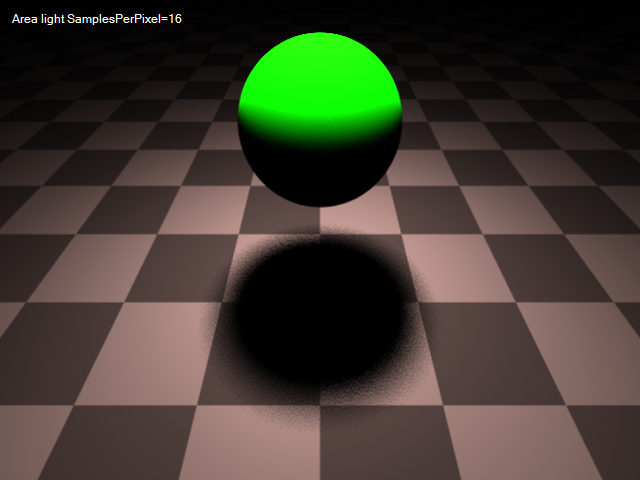
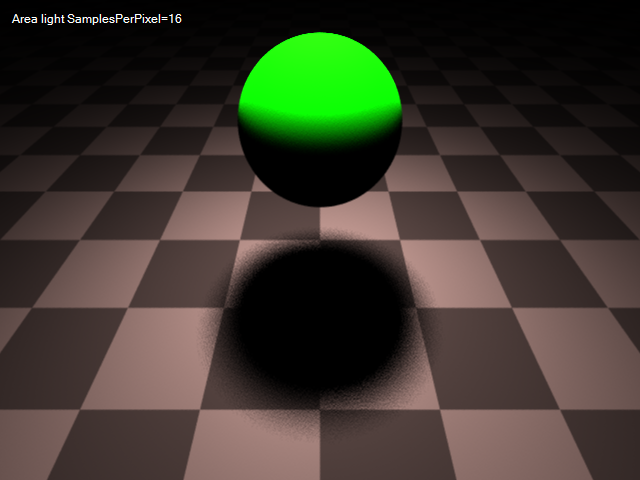
Chap 10.5.3 Solid Checkerboard https://pbr-book.org/3ed-2018/Texture/Solid_and_Procedural_Texturing#SolidCheckerboard Close #18

diff --git a/pbrt/Pbrt.Demos/Scenes/DemoScene.cs b/pbrt/Pbrt.Demos/Scenes/DemoScene.cs
@@ -25,6 +25,7 @@ namespace Pbrt.Demos.Scenes
         public static MediumInterface DefaultMediumInterface => new MediumInterface(HomogeneousMedium.Default());
 
         public Texture<float> MakeTexture(float f) => new ConstantTexture<float>(f);
+        public Texture<Spectrum> MakeSpectrumTexture(float[] rgb) => MakeSpectrumTexture(rgb[0], rgb[1], rgb[2]);
         public Texture<Spectrum> MakeSpectrumTexture(float f) => new ConstantTexture<Spectrum>(new Spectrum(f));
         public Texture<Spectrum> MakeSpectrumTexture(float r, float g, float b) => new ConstantTexture<Spectrum>(new Spectrum(SampledSpectrum.FromRgb(new[] { r, g, b })));
         public Texture<Spectrum> MakeGraySpectrumTexture(float level) => new ConstantTexture<Spectrum>(new Spectrum(SampledSpectrum.FromRgb(new[] { level, level, level })));
@@ -90,16 +91,74 @@ namespace Pbrt.Demos.Scenes
             return pointLight;
         }
 
+        public TriangleMesh Plane(float x0, float z0, float x1, float z1)
+        {
+            int[] indices = {0, 1, 2, 0, 3, 2};
+            Point3F[] points = {
+                new(x0, 0, z0), 
+                new(x0, 0, z1 ), 
+                new(x1, 0, z1), 
+                new(x1, 0, z0) 
+            };
+            
+            var plane = new TriangleMesh(Translate(), 2, indices, 4, points, null, null, null, null, null, null);
+            return plane;
+        }
+        
         public void Floor()
         {
-            var planeTransform = Transform.Scale(100f, 0.1f, 100f);
-            var plane = new Sphere(planeTransform, 1f);
             Texture<Spectrum> kdWhite = MakeGraySpectrumTexture(1);
             Texture<Spectrum> kdGray = MakeGraySpectrumTexture(0.5f);
-            TextureMapping2D mapping = new PlanarMapping2D(VX, VZ, 1, 1);
-            var kdChecker = new Checkerboard2DTexture<Spectrum>(mapping, kdGray, kdWhite);
-            AddShape(plane, new MatteMaterial(kdChecker, MakeTexture(50f), null));
+            TextureMapping3D mapping = new TextureMapping3D(Translate(0));
+            var kdChecker = new Checkerboard3DTexture<Spectrum>(mapping, kdGray, kdWhite);
+            var matteMaterial = new MatteMaterial(kdChecker, MakeTexture(50f), null);
+
+            var plane = Plane(-1000, -1000, 1000, 1000);
+            AddPrimitives(BuildTriangles(plane, matteMaterial));
         }
+
+        public TriangleMesh Cube(Transform transform)
+        {
+            return Cube(-1, -1, -1, 1, 1, 1, transform);
+        }
+
+        public TriangleMesh Cube(float x0, float y0, float z0, float x1, float y1, float z1)
+        {
+            return Cube(x0, y0, z0, x1, y1, z1, Translate());
+        }
+        
+        public TriangleMesh Cube(float x0, float y0, float z0, float x1, float y1, float z1, Transform transform)
+        {
+            int[] indices = {
+                0, 2, 3, 
+                0, 1, 3,
+                0, 2, 6,
+                0, 4, 6,
+                0, 1, 5, 
+                0, 4, 5,
+                7, 2, 3,
+                7, 2, 6,
+                7, 4, 6,
+                7, 4, 5,
+                7, 1, 3,
+                7, 1, 5
+            };
+            
+            Point3F[] points = {
+                new(x0, y0, z0), 
+                new(x0, y0, z1), 
+                new(x0, y1, z0), 
+                new(x0, y1, z1),
+                
+                new(x1, y0, z0), 
+                new(x1, y0, z1), 
+                new(x1, y1, z0), 
+                new(x1, y1, z1), 
+            };
+            
+            var cube = new TriangleMesh(transform, 12, indices, 4, points, null, null, null, null, null, null);
+            return cube;
+        } 
 
         public void Cylinder(Transform transform, IMaterial material, float zMax = 1f, MediumInterface mediumInterface = null)
         {
@@ -135,5 +194,18 @@ namespace Pbrt.Demos.Scenes
                 .ToArray();
             return triangles;
         }
+
+        public void Axis()
+        {
+            var cube1 = Cube(-0.1f, 0f, -0.1f, 0.1f, 20f, 0.1f);
+            var cube2 = Cube(-0.1f, -0.1f, 0f, 0.1f, 0.1f, 20f);
+            var cube3 = Cube(0f, -0.1f, -0.1f, 20f, 0.1f, 0.1f);
+            
+            AddPrimitives(BuildTriangles(cube1, PlasticMaterialGreen));
+            AddPrimitives(BuildTriangles(cube2, PlasticMaterialRed));
+            AddPrimitives(BuildTriangles(cube3, PlasticMaterialBlue));
+        }
+
+        protected float[] Rgb(int r, int g, int b) => new float[] { r / 255f, g / 255f, b / 255f };
     }
 }

diff --git a/pbrt/Pbrt.Tests/Textures/Checkerboar3DTextureTests.cs b/pbrt/Pbrt.Tests/Textures/Checkerboar3DTextureTests.cs
@@ -1,0 +1,35 @@
+using NFluent;
+using NUnit.Framework;
+using pbrt.Core;
+using pbrt.Textures;
+
+namespace Pbrt.Tests.Textures
+{
+    [TestFixture]
+    public class Checkerboard3DTextureTests
+    {
+        [Test]
+        [TestCase(0, 0, 0, 1.23f)]
+        [TestCase(0, 0, 1.5f, 2.34f)]
+        [TestCase(0, 1.5f, 0, 2.34f)]
+        [TestCase(1.5f, 0, 0, 2.34f)]
+        [TestCase(1.5f, 1.5f, 0, 1.23f)]
+        public void MapTest(float x, float y, float z, float expectedT)
+        {
+            Transform transform = Transform.Translate(0,0,0);
+            TextureMapping3D mapping = new TextureMapping3D(transform);
+            Texture<float> tex1 = new ConstantTexture<float>(1.23f);
+            Texture<float> tex2 = new ConstantTexture<float>(2.34f);
+            var texture = new Checkerboard3DTexture<float>(mapping, tex1, tex2);
+            SurfaceInteraction si = new SurfaceInteraction
+            {
+                P = new Point3F(x, y, z),
+                DpDx = Vector3F.Zero,
+                DpDy = Vector3F.Zero
+            };
+
+            var t = texture.Evaluate(si);
+            Check.That(t).IsEqualTo(expectedT);
+        }
+    }
+}

diff --git a/pbrt/pbrt-runner/Program.cs b/pbrt/pbrt-runner/Program.cs
@@ -17,18 +17,18 @@ namespace pbrt_runner
             AbstractDemo[] demos =
             {
                 new HelloWorldDemo(),
-                // new CheckerPlaneDemo(),
-                // new MirrorDemo(),
-                // new GlassDemo(),
-                // new CylinderDemo(),
-                // new DiskDemo(),
-                // new TorusDemo(),
-                // new TriangleDemo(),
-                // new CloverDemo(),
-                // new LensFocalSamplerTestDemo(),
-                // new AreaLightDemo(1),
-                // new AreaLightDemo(4),
-                // new AreaLightDemo(16),
+                new CheckerPlaneDemo(),
+                new MirrorDemo(),
+                new GlassDemo(),
+                new CylinderDemo(),
+                new DiskDemo(),
+                new TorusDemo(),
+                new TriangleDemo(),
+                new CloverDemo(),
+                new LensFocalSamplerTestDemo(),
+                new AreaLightDemo(1),
+                new AreaLightDemo(4),
+                new AreaLightDemo(16),
                 // new AreaLightDemo(64),
                 // new AreaLightDemo(256),
             };

diff --git a/pbrt/Pbrt.Demos/Scenes/CubeScene.cs b/pbrt/Pbrt.Demos/Scenes/CubeScene.cs
@@ -1,0 +1,30 @@
+using pbrt.Materials;
+using pbrt.Spectrums;
+using pbrt.Textures;
+
+namespace Pbrt.Demos.Scenes
+{
+    public class CubeScene : DemoScene
+    {
+        public CubeScene()
+        {
+            Floor();
+            Axis();
+
+            var transform = Translate(tY: 1f)*RotateY(45);
+            
+            var cube = Cube(transform);
+            Texture<Spectrum> kdTex1 =  MakeSpectrumTexture(Rgb(19, 185, 85));
+            Texture<Spectrum> kdTex2 =  MakeSpectrumTexture(Rgb( 173, 30, 149));
+            float s = 2+1e-5f;
+            TextureMapping3D mapping = new TextureMapping3D(transform*Scale(s, s, s));
+            var kdChecker = new Checkerboard3DTexture<Spectrum>(mapping, kdTex2, kdTex1);
+            var material = new MatteMaterial(kdChecker, MakeTexture(50f), null);
+
+            AddPrimitives(BuildTriangles(cube, material));
+            
+            PointLight(5, 15, -10, 500f);
+        }
+
+    }
+}

diff --git a/pbrt/pbrt/Textures/Checkerboard3DTexture.cs b/pbrt/pbrt/Textures/Checkerboard3DTexture.cs
@@ -1,0 +1,30 @@
+using System;
+using pbrt.Core;
+
+namespace pbrt.Textures
+{
+    public class Checkerboard3DTexture<T> : Texture<T>
+    {
+        public TextureMapping3D Mapping { get; }
+        public Texture<T> Tex1 { get; }
+        public Texture<T> Tex2 { get; }
+
+        public Checkerboard3DTexture(TextureMapping3D mapping, Texture<T> tex1, Texture<T> tex2)
+        {
+            Mapping = mapping;
+            Tex1 = tex1;
+            Tex2 = tex2;
+        }
+
+        public override T Evaluate(SurfaceInteraction si)
+        {
+            var p = Mapping.Map(si, out _, out _);
+            if (((int)MathF.Floor(p.X) + (int)MathF.Floor(p.Y) + (int)MathF.Floor(p.Z)) % 2 == 0)
+            {
+                return Tex1.Evaluate(si);
+            }
+
+            return Tex2.Evaluate(si);            
+        }
+    }
+}

diff --git a/pbrt/Pbrt.Demos/Demos/CubeDemo.cs b/pbrt/Pbrt.Demos/Demos/CubeDemo.cs
@@ -1,0 +1,19 @@
+using Pbrt.Demos.Configs;
+using Pbrt.Demos.Scenes;
+
+namespace Pbrt.Demos.Demos
+{
+    public class CubeDemo : AbstractDemo
+    {
+        public override string FileName => "Cube.png";
+
+        public CubeDemo() : base("Cube")
+        {
+            CameraConfig = new CameraConfig
+            {
+                Config = new PerspectiveCameraConfig { Position = (3f, 3, -3f) }
+            };
+            Scene = new CubeScene();
+        }
+    }
+}
